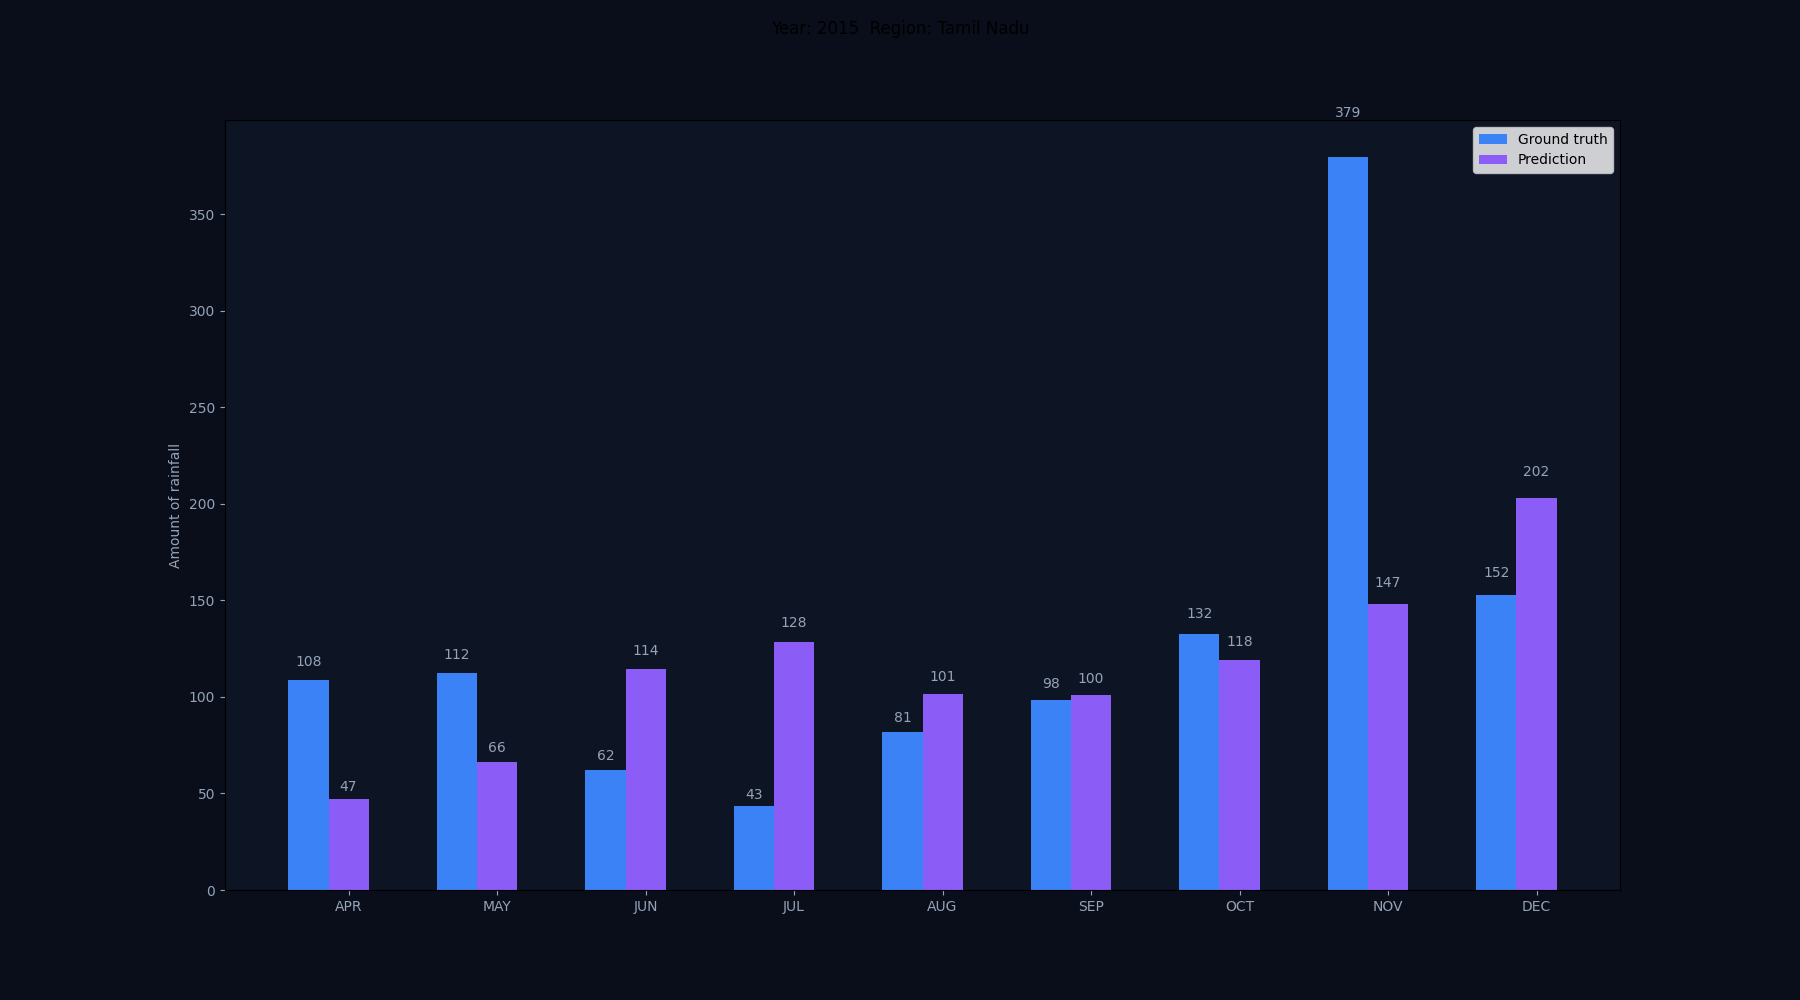
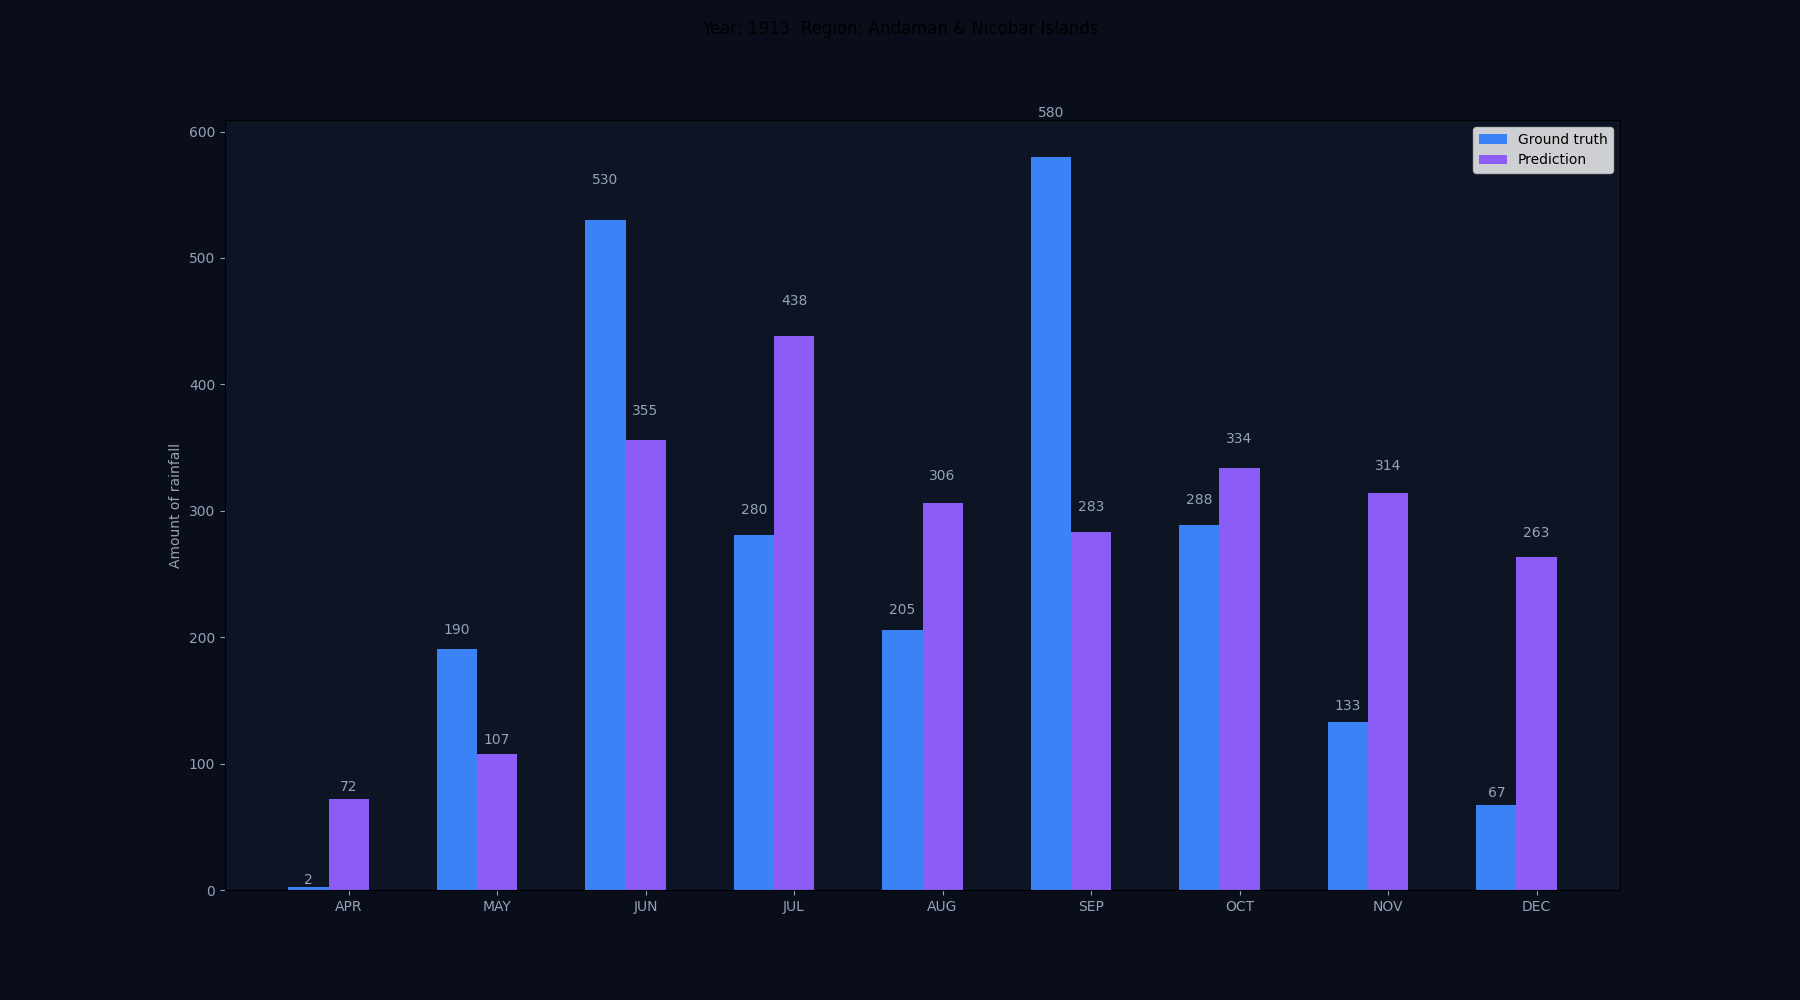
feat(ui): update copy and layouts per user request
- Removed live flood alerts UI and backend.
- Updated About and Footer copy (Team-204).
- Added JavaScript loading indicators to both forms.
- Switched result views to a stacked layout (graph on top of metrics).

diff --git a/app/templates/flood_form.html b/app/templates/flood_form.html
@@ -48,47 +48,19 @@
                 🔍 Predict Water Level
             </button>
         </form>
-    </div>
-
-    <!-- Notice Board -->
-    <div class="glass-card notice-board fade-in fade-in-delay-1" id="noticeBoardCard">
-        <h2 class="notice-title">
-            <span class="notice-dot"></span>
-            Live Flood Alerts
-        </h2>
-
-        {% if result %}
-            {% set hasAlerts = namespace(value=false) %}
-            {% for alert in result %}
-                {% if alert %}{% set hasAlerts.value = true %}{% endif %}
-            {% endfor %}
-
-            {% if hasAlerts.value %}
-            <ul class="alert-list" id="alertList">
-                {% for alert in result %}
-                    {% if alert %}
-                    <li class="alert-item">{{ alert }}</li>
-                    {% endif %}
-                {% endfor %}
-            </ul>
-            {% else %}
-            <div class="no-alerts" id="noAlerts">
-                <div class="no-alerts-icon">✓</div>
-                <p>No active flood alerts at this time.</p>
-            </div>
-            {% endif %}
-        {% else %}
-        <div class="no-alerts" id="noAlerts">
-            <div class="no-alerts-icon">✓</div>
-            <p>No active flood alerts at this time.</p>
+        </form>
+        <div id="loadingIndicator" style="display:none; text-align:center; margin-top:20px;">
+            <p style="color: var(--primary);">⏳ Calculating water level... Please wait.</p>
         </div>
-        {% endif %}
-
-        <a href="{{ url_for('refresh_flood') }}" class="btn btn-secondary" id="refreshBtn"
-           style="width:100%; justify-content:center; margin-top:16px;">
-            🔄 Refresh Alert Data
-        </a>
     </div>
+</div>
+
+<script>
+document.getElementById('floodForm').addEventListener('submit', function() {
+    document.getElementById('floodSubmitBtn').style.display = 'none';
+    document.getElementById('loadingIndicator').style.display = 'block';
+});
+</script>
 
 </div>
 

diff --git a/app/templates/about.html b/app/templates/about.html
@@ -12,7 +12,7 @@
         <span>About</span>
     </nav>
     <h1 class="page-title">About Sahay</h1>
-    <p class="page-subtitle">Flood &amp; Rainfall Intelligence — Project Exhibition 2, VIT</p>
+    <p class="page-subtitle">Project Exhibition - II, VIT Bhopal University (Developed in 2024)</p>
 </div>
 
 <div class="about-layout" id="aboutLayout">
@@ -81,23 +81,23 @@
         <div class="team-grid">
             <div class="team-member" id="memberKavya">
                 <div class="member-avatar">K</div>
-                <p class="member-name">@Kavya</p>
+                <p class="member-name">Kavya</p>
             </div>
             <div class="team-member" id="memberSimarpreet">
                 <div class="member-avatar">S</div>
-                <p class="member-name">@Simarpreet Singh</p>
+                <p class="member-name">Simarpreet Singh</p>
             </div>
             <div class="team-member" id="memberSneha">
                 <div class="member-avatar">S</div>
-                <p class="member-name">@Sneha Mishra</p>
+                <p class="member-name">Sneha Mishra</p>
             </div>
             <div class="team-member" id="memberPooja">
                 <div class="member-avatar">P</div>
-                <p class="member-name">@Pooja Prajapat</p>
+                <p class="member-name">Pooja Prajapat</p>
             </div>
             <div class="team-member" id="memberAshish">
                 <div class="member-avatar">A</div>
-                <p class="member-name">@Ashish Kumar</p>
+                <p class="member-name">Ashish Kumar</p>
             </div>
         </div>
     </div>

diff --git a/app/templates/rainfall_results.html b/app/templates/rainfall_results.html
@@ -19,8 +19,14 @@
 
 <div class="result-layout" id="rainfallResultLayout">
 
+    <!-- Chart -->
+    <div class="glass-card chart-card fade-in" id="rainfallChartCard">
+        <img src="{{ url_for('static', filename='img/rainfall.png') }}"
+             alt="Monthly rainfall ground truth vs prediction chart" loading="lazy">
+    </div>
+
     <!-- Metrics Card -->
-    <div class="glass-card result-card fade-in" id="rainfallResultCard">
+    <div class="glass-card result-card fade-in fade-in-delay-1" id="rainfallResultCard">
         <h2 class="form-title" style="margin-bottom: 24px;">Model Performance</h2>
 
         <table class="result-table">
@@ -36,20 +42,9 @@
             </tbody>
         </table>
 
-        <p style="font-size: 13px; color: var(--text-muted); margin-top: 20px; line-height: 1.6;">
-            The chart on the right shows ground truth vs. predicted rainfall (Apr–Dec)
-            for the selected subdivision and year.
-        </p>
-
         <div style="margin-top: 28px;">
             <a href="{{ url_for('rainfall_home') }}" class="btn btn-secondary" id="rainfallResultBackBtn">← Back</a>
         </div>
-    </div>
-
-    <!-- Chart -->
-    <div class="glass-card chart-card fade-in fade-in-delay-1" id="rainfallChartCard">
-        <img src="{{ url_for('static', filename='img/rainfall.png') }}"
-             alt="Monthly rainfall ground truth vs prediction chart" loading="lazy">
     </div>
 
 </div>

diff --git a/app/templates/flood_results.html b/app/templates/flood_results.html
@@ -19,8 +19,14 @@
 
 <div class="result-layout" id="resultLayout">
 
+    <!-- Flood Image -->
+    <div class="glass-card chart-card fade-in" id="floodImageCard">
+        <img src="{{ url_for('static', filename='img/flood.png') }}"
+             alt="Flood visualization" loading="lazy">
+    </div>
+
     <!-- Metrics Card -->
-    <div class="glass-card result-card fade-in" id="resultCard">
+    <div class="glass-card result-card fade-in fade-in-delay-1" id="resultCard">
         <h2 class="form-title" style="margin-bottom: 24px;">Hydrological Metrics</h2>
 
         <table class="result-table">
@@ -79,12 +85,6 @@
         <div style="margin-top: 28px;">
             <a href="{{ url_for('flood_home') }}" class="btn btn-secondary" id="floodResultBackBtn">← Back</a>
         </div>
-    </div>
-
-    <!-- Flood Image -->
-    <div class="glass-card chart-card fade-in fade-in-delay-1" id="floodImageCard">
-        <img src="{{ url_for('static', filename='img/flood.png') }}"
-             alt="Flood visualization" loading="lazy">
     </div>
 
 </div>

diff --git a/app/templates/base.html b/app/templates/base.html
@@ -78,7 +78,6 @@
         {% block content %}{% endblock %}
     </main>
 
-    <!-- Footer -->
     <footer class="footer">
         <div class="footer-container">
             <div class="footer-brand">
@@ -94,7 +93,7 @@
                 <a href="{{ url_for('about') }}">About</a>
             </nav>
             <div class="footer-credit">
-                <p class="footer-team">Team-204 &middot; Project Exhibition 2 &middot; VIT</p>
+                <p class="footer-team">Team-204</p>
                 <p class="footer-members">Kavya &middot; Simarpreet Singh &middot; Sneha Mishra &middot; Pooja Prajapat &middot; Ashish Kumar</p>
             </div>
         </div>

diff --git a/app/templates/rainfall_form.html b/app/templates/rainfall_form.html
@@ -90,7 +90,17 @@
                 📊 Run Analysis
             </button>
         </form>
+        <div id="loadingIndicator" style="display:none; text-align:center; margin-top:20px;">
+            <p style="color: var(--primary);">⏳ Training CNN and calculating rainfall... Please wait.</p>
+        </div>
     </div>
 </div>
+
+<script>
+document.getElementById('rainfallForm').addEventListener('submit', function() {
+    document.getElementById('rainfallSubmitBtn').style.display = 'none';
+    document.getElementById('loadingIndicator').style.display = 'block';
+});
+</script>
 
 {% endblock %}

diff --git a/app/static/sahay.css b/app/static/sahay.css
@@ -647,8 +647,8 @@ main {
 
 /* ── Result Layout ───────────────────────────────────────────── */
 .result-layout {
-  display: grid;
-  grid-template-columns: 1fr 1fr;
+  display: flex;
+  flex-direction: column;
   gap: 28px;
   max-width: 1100px;
   margin: 0 auto;

diff --git a/app/app.py b/app/app.py
@@ -2,7 +2,6 @@ from flask import Flask, render_template, request, flash, redirect, url_for
 import os
 import flood_pipeline
 import rainfall
-import flood_alerts
 
 app = Flask(__name__)
 
@@ -14,22 +13,13 @@ def index():
     return render_template('index.html')
 
 
-@app.route('/refresh_flood')
-def refresh_flood():
-    flood_alerts.water_level_predictor()  # Refresh the flood warning data
-    return redirect(url_for('flood_home'))
-
+@app.route('/flood_home')
+def flood_home():
+    return render_template('flood_form.html')
 
 @app.route('/about')
 def about():
     return render_template('about.html')
-
-
-@app.route('/flood_home')
-def flood_home():
-    res = flood_alerts.alerting()
-    res = ['Flood ALERT for ' + alert for alert in res]
-    return render_template('flood_form.html', result=res)
 
 
 @app.route('/rainfall_home')
